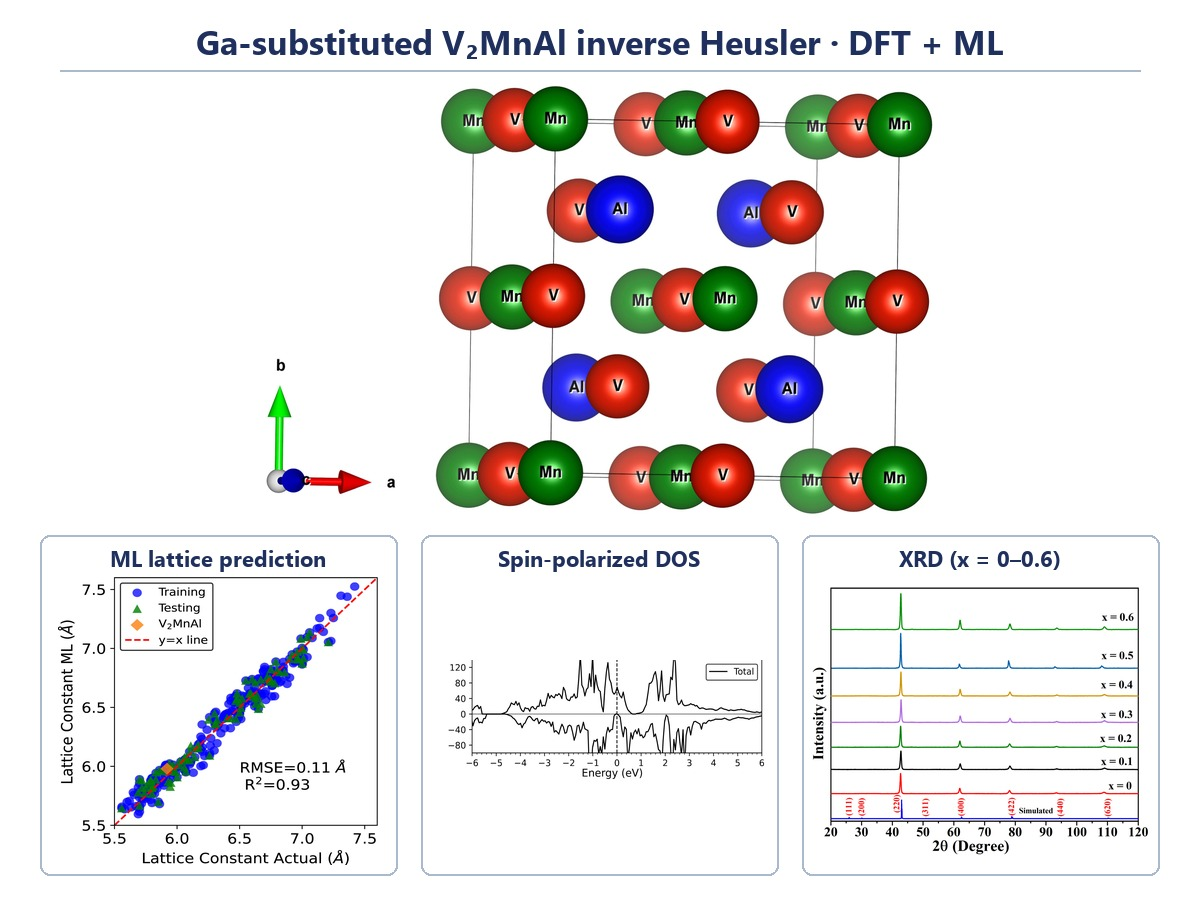
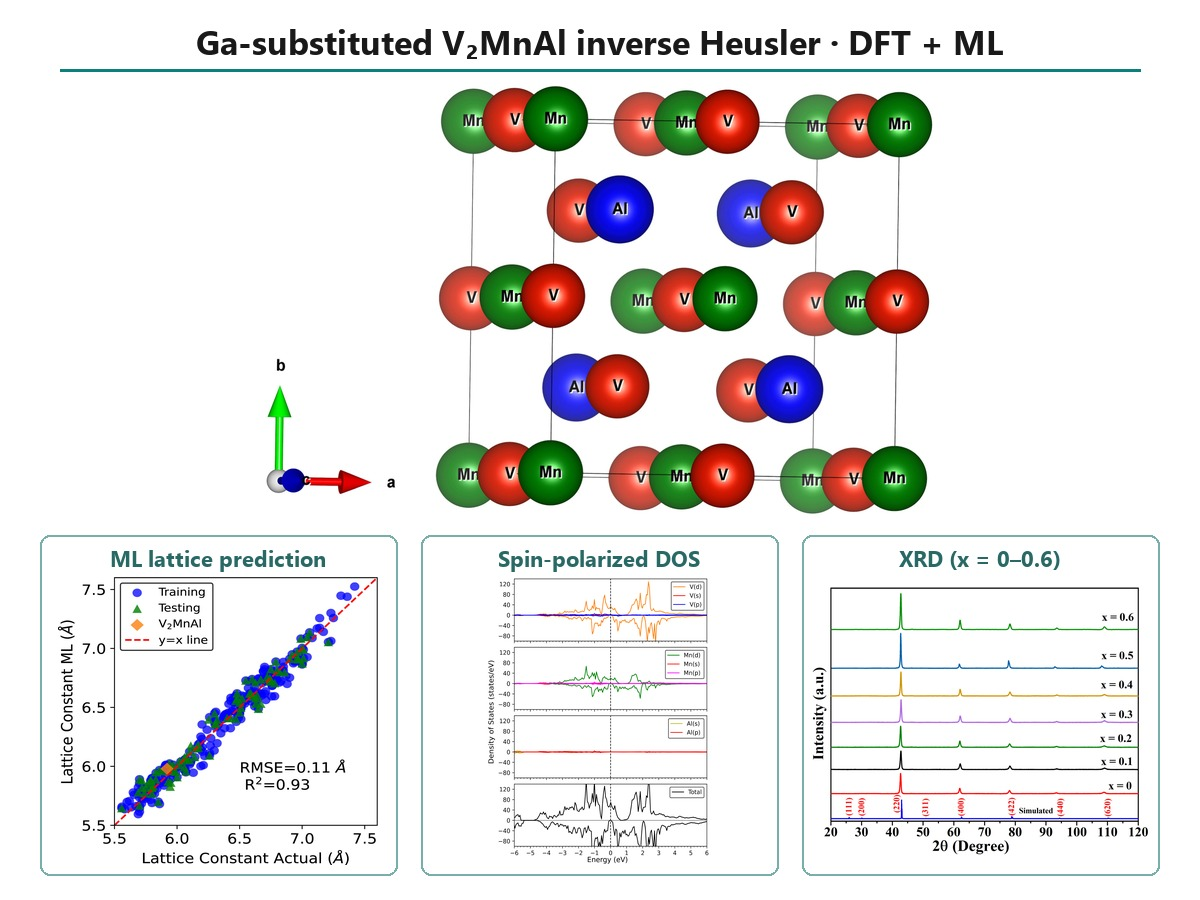
Restyle composite publication thumbnails to match 47; enlarge DOS panels
Claude-Session: https://claude.ai/code/session_01C8otz9xRUX7zpZLP7SNUXe

diff --git a/index.html b/index.html
@@ -407,6 +407,6 @@
 <script id="imgdata" type="application/json">{"logo": "assets/img/logo.png", "concept": "assets/img/concept.jpg", "scope": "assets/img/scope.jpg?v=20261005", "pillars": "assets/img/pillars.jpg", "qr": "assets/img/qr.jpg", "pi": "assets/img/pi.jpg?v=20261010", "m_bincy": "assets/img/m_bincy.jpg", "m_ganji": "assets/img/m_ganji.jpg", "m_prabha": "assets/img/m_prabha.jpg", "m_ksw": "assets/img/m_ksw.jpg", "m_kjb": "assets/img/m_kjb.jpg", "m_khn": "assets/img/m_khn.jpg", "m_cde": "assets/img/m_cde.jpg", "m_smt": "assets/img/m_smt.jpg", "m_shj": "assets/img/m_shj.jpg", "m_ldg": "assets/img/m_ldg.jpg", "m_lsh": "assets/img/m_lsh.jpg", "m_jsw": "assets/img/m_jsw.jpg", "sw_ansys": "assets/img/sw_ansys.png", "sw_fluent": "assets/img/sw_fluent.png", "sw_comsol": "assets/img/sw_comsol.png", "sw_digimat": "assets/img/sw_digimat.png", "sw_geodict": "assets/img/sw_geodict.png", "sw_hepigans": "assets/img/sw_hepigans.png", "sw_msstudio": "assets/img/sw_msstudio.png", "sw_piano": "assets/img/sw_piano.png", "sw_vasp": "assets/img/sw_vasp.png", "n_grad": "assets/img/n_grad.jpg", "n_cover": "assets/img/n_cover.jpg", "n_plat": "assets/img/n_plat.jpg?v=20260905", "n_award": "assets/img/n_award.jpg", "n_geo": "assets/img/n_geo.jpg", "n_qd": "assets/img/n_qd.jpg", "n_marine": "assets/img/n_marine.jpg", "n_hydro": "assets/img/pub/20.jpg", "n_amds": "assets/img/n_amds.jpg", "n_etamds": "assets/img/n_etamds.jpg", "n_mico": "assets/img/n_mico.jpg", "n_halide": "assets/img/n_halide.jpg?v=20260905", "n_tribo": "assets/img/pub/13.jpg", "m_kgw": "assets/img/m_kgw.jpg", "m_gf": "assets/img/m_gf.jpg", "m_uk": "assets/img/m_uk.jpg"}</script>
 <script id="galdata" type="application/json">[{"id": "e2609b", "date": "2026.09.30–10.02", "title": "Korean Ceramic Society", "note": "추계학술대회", "cover": "assets/img/gallery/e2609b-cover.jpg", "shots": ["assets/img/gallery/e2609b-01.jpg", "assets/img/gallery/e2609b-02.jpg"]}, {"id": "e2609", "date": "2026.09.08", "title": "Welcome, Daeun!", "note": "최다은 연구원 환영회", "cover": "assets/img/gallery/e2609-cover.jpg", "shots": ["assets/img/gallery/e2609-01.jpg"]}, {"id": "e2606", "date": "2026.06.21–24", "title": "CIMTEC 2026 · 10th Forum on New Materials", "note": "Perugia, Italy", "cover": "assets/img/gallery/e2606-cover.jpg", "shots": ["assets/img/gallery/e2606-01.jpg", "assets/img/gallery/e2606-02.jpg", "assets/img/gallery/e2606-04.jpg", "assets/img/gallery/e2606-03.jpg"]}, {"id": "e2605b", "date": "2026.05.15", "title": "Teachers' Day", "note": "스승의 날", "cover": "assets/img/gallery/e2605b-cover.jpg", "shots": ["assets/img/gallery/e2605b-02.jpg"]}, {"id": "e2605a", "date": "2026.05.08", "title": "Homecoming", "note": "졸업생 방문", "cover": "assets/img/gallery/e2605a-cover.jpg", "shots": ["assets/img/gallery/e2605a-14.jpg"]}, {"id": "e2604", "date": "2026.04.08–10", "title": "Korean Ceramic Society", "note": "춘계학술대회", "cover": "assets/img/gallery/e2604-cover.jpg", "shots": ["assets/img/gallery/e2604-08.jpg", "assets/img/gallery/e2604-01.jpg", "assets/img/gallery/e2604-06.jpg"]}, {"id": "e2601", "date": "2026.01.09", "title": "Birthday", "note": "", "cover": "assets/img/gallery/e2601-cover.jpg", "shots": ["assets/img/gallery/e2601-01.jpg"]}, {"id": "e2511", "date": "2025.11.19–22", "title": "39th Korea–Japan Seminar on Ceramics", "note": "Oriental Hotel, Jeju", "cover": "assets/img/gallery/e2511-cover.jpg", "shots": ["assets/img/gallery/e2511-01.jpg", "assets/img/gallery/e2511-02.jpg", "assets/img/gallery/e2511-04.jpg"]}, {"id": "e2506", "date": "2025.06.02", "title": "Congrats, Donggeon!", "note": "이동건 취업 축하 파티", "cover": "assets/img/gallery/e2506-cover.jpg", "shots": ["assets/img/gallery/e2506-01.jpg"]}, {"id": "e2505", "date": "2025.05.15", "title": "Teachers' Day", "note": "스승의 날", "cover": "assets/img/gallery/e2505-cover.jpg", "shots": ["assets/img/gallery/e2505-03.jpg", "assets/img/gallery/e2505-05.jpg"]}, {"id": "e2503", "date": "2025.03.13", "title": "Group meeting", "note": "", "cover": "assets/img/gallery/e2503-cover.jpg", "shots": ["assets/img/gallery/e2503-01.jpg"]}, {"id": "e2502b", "date": "2025.02.27", "title": "Welcome Dr. Karan", "note": "환영회", "cover": "assets/img/gallery/e2502b-cover.jpg", "shots": ["assets/img/gallery/e2502b-01.jpg", "assets/img/gallery/e2502b-02.jpg"]}, {"id": "e2502a", "date": "2025.02.05–07", "title": "Nature Conference: Materials for AI", "note": "KAIST", "cover": "assets/img/gallery/e2502a-cover.jpg", "shots": ["assets/img/gallery/e2502a-01.jpg"]}, {"id": "e2501", "date": "2025.01.10", "title": "Birthday", "note": "", "cover": "assets/img/gallery/e2501-cover.jpg", "shots": ["assets/img/gallery/e2501-01.jpg"]}, {"id": "e2410", "date": "2024.10.16–18", "title": "Korean Ceramic Society", "note": "추계학술대회", "cover": "assets/img/gallery/e2410-cover.jpg", "shots": ["assets/img/gallery/e2410-04.jpg", "assets/img/gallery/e2410-01.jpg", "assets/img/gallery/e2410-02.jpg"]}, {"id": "e2409", "date": "2024.09.22–27", "title": "Multiscale Materials Modeling (MMM11)", "note": "", "cover": "assets/img/gallery/e2409-cover.jpg", "shots": ["assets/img/gallery/e2409-01.jpg", "assets/img/gallery/e2409-02.jpg", "assets/img/gallery/e2409-09.jpg", "assets/img/gallery/e2409-03.jpg", "assets/img/gallery/e2409-04.jpg", "assets/img/gallery/e2409-05.jpg", "assets/img/gallery/e2409-06.jpg"]}, {"id": "e2403", "date": "2024.03.15–16", "title": "Membership Training", "note": "Geoje", "cover": "assets/img/gallery/e2403-cover.jpg", "shots": ["assets/img/gallery/emt-01.jpg"]}, {"id": "e2305", "date": "2023.05.19–20", "title": "Membership Training", "note": "Changwon", "cover": "assets/img/gallery/e2305-cover.jpg", "shots": ["assets/img/gallery/emt-06.jpg", "assets/img/gallery/emt-02.jpg"]}]</script>
 <script id="pubdata" type="application/json">[{"id": 62, "date": "2026-10-01", "year": 2026, "title": "Flavonoid-coordinated NiCo bimetallic complex for interfacial electronic reconstruction and d-band engineering in BiVO4 toward sustainable solar water oxidation", "venue": "Journal of Energy Chemistry", "jif": 15.6, "q": "Q1", "cites": 0, "role": "co-author", "pos": [8, 10], "doi": "https://doi.org/10.1016/j.jechem.2026.06.082", "authors": [{"n": "Pratik Mane", "lab": false, "m": ""}, {"n": "Sampath Prabhakaran", "lab": true, "m": ""}, {"n": "Vishal Burungale", "lab": false, "m": ""}, {"n": "Hyojung Bae", "lab": false, "m": ""}, {"n": "Jiwon Heo", "lab": false, "m": ""}, {"n": "Chaewon Seong", "lab": false, "m": ""}, {"n": "Dhanashri Burungale", "lab": false, "m": ""}, {"n": "Hyunseok Ko", "lab": true, "m": ""}, {"n": "Sang Hyun Lee", "lab": false, "m": ""}, {"n": "Jun-Seok Ha", "lab": false, "m": ""}], "fig": 1}, {"id": 61, "date": "2026-08-25", "year": 2026, "title": "Effect of fumed silica content on the microstructural evolution and mechanical properties of metakaolin-based basalt fiber-reinforced geopolymer matrix composites", "venue": "Advanced Composite Materials", "jif": null, "q": null, "cites": 0, "role": "co-corresponding", "pos": [5, 5], "doi": "https://doi.org/10.1080/09243046.2026.2721819", "authors": [{"n": "Sanghun Lee", "lab": true, "m": "†"}, {"n": "Shinwoo Kang", "lab": true, "m": "†"}, {"n": "Hyung Mi Lim", "lab": false, "m": ""}, {"n": "Seog-Young Yoon", "lab": false, "m": "*"}, {"n": "Hyunseok Ko", "lab": true, "m": "*"}], "fig": 1}, {"id": 60, "date": "2026-11-01", "year": 2026, "title": "Composition and Processing Descriptors Govern Electroceramic Property Prediction: A Multi-Modal Interpretable Framework for BaTiO3-Based Ceramics", "venue": "Journal of Materiomics", "jif": 10.6, "q": "Q1", "cites": 0, "role": "co-corresponding", "pos": [6, 7], "doi": "https://doi.org/10.1016/j.jmat.2026.101282", "authors": [{"n": "Saman khalid", "lab": false, "m": "†"}, {"n": "Muhammad Faseeh", "lab": false, "m": "†"}, {"n": "Murad Ali Khan", "lab": false, "m": ""}, {"n": "Hyejeong Song", "lab": true, "m": ""}, {"n": "Syed Shehryar Ali Naqvi", "lab": false, "m": ""}, {"n": "Hyunseok Ko", "lab": true, "m": "*"}, {"n": "Do-Hyeun Kim", "lab": false, "m": "*"}], "fig": 1}, {"id": 59, "date": "2026-08-01", "year": 2026, "title": "Multi-model machine learning framework for predicting material properties of BaTiO3-based ferroelectric ceramics", "venue": "Materials & Design", "jif": 8.2, "q": "Q1", "cites": 0, "role": "co-corresponding", "pos": [6, 7], "doi": "https://doi.org/10.1016/j.matdes.2026.116418", "authors": [{"n": "Saman Khalid", "lab": false, "m": "†"}, {"n": "Muhammad Faseeh", "lab": false, "m": ""}, {"n": "Hyejeong Song", "lab": true, "m": ""}, {"n": "Murad Ali Khan", "lab": false, "m": ""}, {"n": "Syed Shehryar Ali Naqvi", "lab": false, "m": ""}, {"n": "Hyunseok Ko", "lab": true, "m": "*"}, {"n": "Do-Hyeon Kim", "lab": false, "m": "*"}], "fig": 1}, {"id": 58, "date": "2026-08-01", "year": 2026, "title": "Reinforced surface reactivity via incorporation of metal catalyst onto perovskite oxide for CO2 reduction", "venue": "Materials Today Energy", "jif": 8.1, "q": "Q1", "cites": 0, "role": "co-corresponding", "pos": [9, 10], "doi": "https://doi.org/10.1016/j.mtener.2026.102327", "authors": [{"n": "Sang Won Lee", "lab": false, "m": "†"}, {"n": "Sampath Prabhakaran", "lab": true, "m": "†"}, {"n": "Tae Heon Nam", "lab": false, "m": ""}, {"n": "Geunwoo Kim", "lab": true, "m": ""}, {"n": "Jae Hoon Lim", "lab": false, "m": ""}, {"n": "Hyejeong Song", "lab": true, "m": ""}, {"n": "Sungtae Park", "lab": false, "m": ""}, {"n": "Jong Hyeok Park", "lab": false, "m": "*"}, {"n": "Hyunseok Ko", "lab": true, "m": "*"}, {"n": "Tae Ho Shin", "lab": false, "m": "*"}], "fig": 1}, {"id": 57, "date": "2026-12-01", "year": 2026, "title": "High Polarity Doping of CoFe Layered Hydroxides: Bifunctional and Corrosion-Resistant Anion Exchange Membrane Seawater Electrolyzers", "venue": "Nano-Micro Letters", "jif": 38.5, "q": "Q1", "cites": 2, "role": "co-author", "pos": [6, 11], "doi": "https://doi.org/10.1007/s40820-026-02230-8", "authors": [{"n": "Anandhan Ayyappan Saj", "lab": false, "m": "†"}, {"n": "Sampath Prabhakaran", "lab": true, "m": "†"}, {"n": "Moshin Rasool", "lab": false, "m": ""}, {"n": "Kousik Bhunia", "lab": false, "m": ""}, {"n": "Dongho Lee", "lab": false, "m": ""}, {"n": "Hyunseok Ko", "lab": true, "m": ""}, {"n": "Tukaram D. Dongale", "lab": false, "m": ""}, {"n": "Muthukumar Perumalsamy", "lab": false, "m": ""}, {"n": "Arul Saravanan Raaju Sundhar", "lab": false, "m": ""}, {"n": "Do Hwan Kim", "lab": false, "m": "*"}, {"n": "Sang Jae Kim", "lab": false, "m": "*"}], "fig": 1}, {"id": 56, "date": "2026-08-01", "year": 2026, "title": "Low temperature/low-pressure fabrication of oxide/oxide ceramic matrix composites with excellent mechanical properties and stealth capabilities", "venue": "Advanced Composites and Hybrid Materials", "jif": 15.5, "q": "Q1", "cites": 0, "role": "co-author", "pos": [3, 7], "doi": "https://doi.org/10.1007/s42114-026-01816-5", "authors": [{"n": "Shanigaram Mallesh", "lab": false, "m": "†"}, {"n": "Dong-Jun Hong", "lab": false, "m": ""}, {"n": "Hyunseok Ko", "lab": true, "m": ""}, {"n": "Sanghun Lee", "lab": true, "m": ""}, {"n": "Chae-Hwan Lim", "lab": false, "m": ""}, {"n": "Won-Ho Choi", "lab": false, "m": ""}, {"n": "Young-Woo Nam", "lab": false, "m": "*"}], "fig": 1}, {"id": 55, "date": "2026-06-17", "year": 2026, "title": "Mechanistic insights into vacancy-driven activation and dissociation of hydrogen peroxide on Ti3C2O2 MXene in water", "venue": "Nanoscale Advances", "jif": 6.3, "q": "Q2", "cites": 0, "role": "corresponding", "pos": [2, 2], "doi": "https://doi.org/10.1039/d5na00962f", "authors": [{"n": "Masoud Darvish Ganji", "lab": true, "m": "†"}, {"n": "Hyunseok Ko", "lab": true, "m": "*"}], "fig": 1, "sel": 1}, {"id": 54, "date": "2026-06-01", "year": 2026, "title": "Bridging the theoretical gap between electronic structure and dynamic stability: An integrated computational framework for ZnO sheet-based chemical warfare agent sensors", "venue": "Surfaces and Interfaces", "jif": 6.0, "q": "Q2", "cites": 5, "role": "co-corresponding", "pos": [3, 3], "doi": "https://doi.org/10.1016/j.surfin.2026.109196", "authors": [{"n": "Masoud Darvish Ganji", "lab": true, "m": "†"}, {"n": "Mahyar Rezvani", "lab": false, "m": ""}, {"n": "Hyunseok Ko", "lab": true, "m": "*"}], "fig": 1}, {"id": 53, "date": "2026-07-01", "year": 2026, "title": "Numerical analysis and optimization of horizontal MOCVD reactor design parameters for uniform GaN thin films", "venue": "Journal of the Korean Ceramic Society", "jif": 4.4, "q": "Q1", "cites": 0, "role": "co-corresponding", "pos": [3, 3], "doi": "https://doi.org/10.1007/s43207-026-00602-9", "authors": [{"n": "Haneul Kim", "lab": true, "m": "†"}, {"n": "Roy Byung Kyu Chung", "lab": false, "m": ""}, {"n": "Hyunseok Ko", "lab": true, "m": "*"}], "fig": 1}, {"id": 52, "date": "2026-03-01", "year": 2026, "title": "Processing-structure-property prediction in polycrystalline BaTiO3 ceramics using experimental and computational data fusion", "venue": "Materials Today Communications", "jif": 4.9, "q": "Q2", "cites": 1, "role": "co-corresponding", "pos": [6, 7], "doi": "https://doi.org/10.1016/j.mtcomm.2026.115004", "authors": [{"n": "Muhammad Faseeh", "lab": false, "m": "†"}, {"n": "Hyejeong Song", "lab": true, "m": ""}, {"n": "Murad Ali Khan", "lab": false, "m": ""}, {"n": "Syed Shehryar Ali Naqvi", "lab": false, "m": ""}, {"n": "Saman Khalid", "lab": false, "m": ""}, {"n": "Hyunseok Ko", "lab": true, "m": "*"}, {"n": "Do-Hyeun Kim", "lab": false, "m": "*"}], "fig": 1}, {"id": 51, "date": "2026-03-01", "year": 2026, "title": "Hierarchically structured Cu-Fe-S nanomaterials as dual-functional catalysts for enhanced hydrogen evolution and photocatalytic dye degradation", "venue": "Journal of Alloys and Compounds", "jif": 6.7, "q": "Q2", "cites": 0, "role": "co-corresponding", "pos": [7, 8], "doi": "https://doi.org/10.1016/j.jallcom.2026.187031", "authors": [{"n": "C.K. Sushma", "lab": false, "m": "†"}, {"n": "Hyeon Woo Kim", "lab": false, "m": ""}, {"n": "Maheshkumar V", "lab": false, "m": ""}, {"n": "Anju Sebastian", "lab": false, "m": ""}, {"n": "Masoud Darvish Ganji", "lab": true, "m": ""}, {"n": "Sung Beom Cho", "lab": false, "m": ""}, {"n": "Hyunseok Ko", "lab": true, "m": "*"}, {"n": "Vidhya Bhojan", "lab": false, "m": "*"}], "fig": 1}, {"id": 50, "date": "2026-02-01", "year": 2026, "title": "First-Principles Models of Triboelectrification", "venue": "Small Methods", "jif": 8.7, "q": "Q1", "cites": 0, "role": "co-author", "pos": [3, 6], "doi": "https://doi.org/10.1002/smtd.202501782", "authors": [{"n": "Giulio Fatti", "lab": true, "m": "†"}, {"n": "John Cavin", "lab": false, "m": ""}, {"n": "Hyunseok Ko", "lab": true, "m": ""}, {"n": "Rohan Mishra", "lab": false, "m": ""}, {"n": "Daniele Dini", "lab": false, "m": ""}, {"n": "Sung Beom Cho", "lab": false, "m": ""}], "fig": 1}, {"id": 49, "date": "2026-01-02", "year": 2026, "title": "Toward efficient dielectric material discovery: a comparative evaluation of Transformer and AutoML-based inverse learning", "venue": "Journal of Asian Ceramic Societies", "jif": 1.8, "q": "Q3", "cites": 1, "role": "co-corresponding", "pos": [5, 6], "doi": "https://doi.org/10.1080/21870764.2025.2570561", "authors": [{"n": "Murad Ali Khan", "lab": false, "m": "†"}, {"n": "Hyejeong Song", "lab": true, "m": ""}, {"n": "Syed Shehryar Ali Naqvi", "lab": false, "m": ""}, {"n": "Muhammad Faseeh", "lab": false, "m": ""}, {"n": "Hyunseok Ko", "lab": true, "m": "*"}, {"n": "Do-Hyeun Kim", "lab": false, "m": "*"}], "fig": 1}, {"id": 48, "date": "2025-11-01", "year": 2025, "title": "Boosting the efficiency and stability of cerium-doped trimetallic phosphides for overall water splitting", "venue": "Chemical Engineering Journal", "jif": 12.5, "q": "Q1", "cites": 5, "role": "co-author", "pos": [5, 8], "doi": "https://doi.org/10.1016/j.cej.2025.169404", "authors": [{"n": "Mai Mai", "lab": false, "m": "†"}, {"n": "Sampath Prabhakaran", "lab": true, "m": ""}, {"n": "Huyen Thi Dao", "lab": false, "m": ""}, {"n": "Lan Nguyen", "lab": false, "m": ""}, {"n": "Hyunseok Ko", "lab": true, "m": ""}, {"n": "Young Sun Mok", "lab": false, "m": ""}, {"n": "Van Hien Hoa", "lab": false, "m": "*"}, {"n": "Do Hwan Kim", "lab": false, "m": "*"}], "fig": 1}, {"id": 47, "date": "2025-10-28", "year": 2025, "title": "Engineering multifunctionality in gallium oxide: unveiling novel structural, electronic, and opto-mechanical attributes of gadolinium-doped β-Ga2O3 through advanced first-principles design", "venue": "RSC Advances", "jif": 6.1, "q": "Q2", "cites": 4, "role": "corresponding", "pos": [2, 2], "doi": "https://doi.org/10.1039/d5ra05763a", "authors": [{"n": "Masoud Darvish Ganji", "lab": true, "m": "†"}, {"n": "Hyunseok Ko", "lab": true, "m": "*"}], "fig": 1}, {"id": 46, "date": "2025-09-01", "year": 2025, "title": "Rational material design of chemically inert oxide anode coating layers for lithium metal and all-solid-state batteries", "venue": "Applied Surface Science Advances", "jif": 10.0, "q": "Q1", "cites": 0, "role": "co-author", "pos": [6, 10], "doi": "https://doi.org/10.1016/j.apsadv.2025.100842", "authors": [{"n": "Dong Won Jeon", "lab": false, "m": "†"}, {"n": "Wootaek Choi", "lab": false, "m": ""}, {"n": "Jun Hyuk Kang", "lab": false, "m": ""}, {"n": "Hyeon Woo Kim", "lab": false, "m": ""}, {"n": "Min Sung Kang", "lab": false, "m": ""}, {"n": "Woongchan Kim", "lab": false, "m": ""}, {"n": "Han Uk Lee", "lab": false, "m": ""}, {"n": "Hyunseok Ko", "lab": true, "m": ""}, {"n": "Patrick Joohyun Kim", "lab": false, "m": "*"}, {"n": "Sung Beom Cho", "lab": false, "m": "*"}], "fig": 1}, {"id": 45, "date": "2025-06-30", "year": 2025, "title": "초저궤도 우주환경에서 자기 강화 원자산소 저항 산화층이 형성된 산화물/산화물 세라믹 복합재 구조의 손상 거동 평가", "venue": "복합재료 (Composites Research), 한국복합재료학회", "jif": null, "q": null, "cites": 0, "role": "co-author", "pos": [6, 8], "doi": "https://doi.org/10.7234/composres.2025.38.3.333", "authors": [{"n": "Chae-Hwan Lim", "lab": false, "m": "†"}, {"n": "Dong-Jun Hong", "lab": false, "m": ""}, {"n": "Hanna Jang", "lab": false, "m": ""}, {"n": "Seung-Hyeon Kang", "lab": false, "m": ""}, {"n": "Sang-Hoon Lee", "lab": true, "m": ""}, {"n": "Hyunseok Ko", "lab": true, "m": ""}, {"n": "Won-Ho Choi", "lab": false, "m": ""}, {"n": "Young-Woo Nam", "lab": false, "m": ""}], "fig": 1}, {"id": 44, "date": "2025-09-01", "year": 2025, "title": "First-principles investigation of Mo-doped β-Ga2O3: Prospects for visible light technologies and spintronics", "venue": "Physica B: Condensed Matter", "jif": 3.2, "q": "Q2", "cites": 8, "role": "corresponding", "pos": [5, 5], "doi": "https://doi.org/10.1016/j.physb.2025.417334", "authors": [{"n": "Masoud Darvish Ganji", "lab": true, "m": "†"}, {"n": "Hyejeong Song", "lab": true, "m": ""}, {"n": "Ji-Hyeon Park", "lab": false, "m": ""}, {"n": "Dae-Woo Jeon", "lab": false, "m": ""}, {"n": "Hyunseok Ko", "lab": true, "m": "*"}], "fig": 1}, {"id": 43, "date": "2025-03-12", "year": 2025, "title": "Accentuating the ambient curing behavior of geopolymers: metamodel-guided optimization for fast-curing geopolymers with high flexural strength", "venue": "Digital Discovery", "jif": 7.1, "q": "Q1", "cites": 4, "role": "corresponding", "pos": [5, 6], "doi": "https://doi.org/10.1039/d4dd00217b", "authors": [{"n": "Kyungwon Kim", "lab": true, "m": "†"}, {"n": "Hyejeong Song", "lab": true, "m": "†"}, {"n": "Sanghun Lee", "lab": true, "m": ""}, {"n": "Hyung-Kyu Cho", "lab": false, "m": ""}, {"n": "Hyung-Mi Lim", "lab": false, "m": ""}, {"n": "Hyunseok Ko", "lab": true, "m": "*"}], "fig": 1}, {"id": 42, "date": "2025-01-14", "year": 2025, "title": "First-Principle Insights into Positive Triboelectrification of Polyoxymethylene Through Homolytic Bond Rupture", "venue": "Nanoenergy Advances", "jif": 4.2, "q": "Q3", "cites": 2, "role": "co-author", "pos": [2, 3], "doi": "https://doi.org/10.3390/nanoenergyadv5010001", "authors": [{"n": "Giulio Fatti", "lab": true, "m": "†*"}, {"n": "Hyunseok Ko", "lab": true, "m": ""}, {"n": "Sung Beom Cho", "lab": false, "m": ""}], "fig": 1}, {"id": 41, "date": "2025-02-01", "year": 2025, "title": "Ultrahigh-gain colloidal quantum dot infrared avalanche photodetectors", "venue": "Nature Nanotechnology", "jif": 37.5, "q": "Q1", "cites": 47, "role": "first", "pos": [3, 9], "doi": "https://doi.org/10.1038/s41565-024-01831-x", "authors": [{"n": "Byeongsu Kim", "lab": false, "m": "†"}, {"n": "Sang Yeon Lee", "lab": false, "m": "†"}, {"n": "Hyunseok Ko", "lab": true, "m": "†"}, {"n": "Jihyung Lee", "lab": false, "m": ""}, {"n": "Hyejeong Song", "lab": true, "m": ""}, {"n": "Sungjun Cho", "lab": false, "m": ""}, {"n": "Min-Ho Lee", "lab": false, "m": ""}, {"n": "Jung-Yong Lee", "lab": false, "m": ""}], "fig": 1, "sel": 1}, {"id": 40, "date": "2025-04-01", "year": 2025, "title": "Unveiling the Aluminum Doping Effects of In-Situ Transmogrified Dual-LDH Heterostructure and Its Fermi-Level Alignment to Water Splitting Potentials", "venue": "Advanced Energy Materials", "jif": 25.5, "q": "Q1", "cites": 39, "role": "co-author", "pos": [10, 11], "doi": "https://doi.org/10.1002/aenm.202403889", "authors": [{"n": "Nandapriya Manivelan", "lab": false, "m": "†"}, {"n": "Junji Piao", "lab": false, "m": ""}, {"n": "Jaekook Kim", "lab": false, "m": ""}, {"n": "Seunghwa Lee", "lab": false, "m": ""}, {"n": "Youngji Kim", "lab": false, "m": ""}, {"n": "Vaiyapuri Soundharrajan", "lab": false, "m": ""}, {"n": "Min-Kyu Son", "lab": false, "m": ""}, {"n": "Amir Humayun", "lab": false, "m": ""}, {"n": "Masoud Darvish Ganji", "lab": true, "m": ""}, {"n": "Hyunseok Ko", "lab": true, "m": ""}, {"n": "Kandasamy Prabakar", "lab": false, "m": ""}], "fig": 1}, {"id": 39, "date": "2025-01-01", "year": 2025, "title": "Machine learning-enhanced design of lead-free halide perovskite materials using density functional theory", "venue": "Current Applied Physics", "jif": 2.8, "q": "Q3", "cites": 7, "role": "co-corresponding", "pos": null, "doi": "https://doi.org/10.1016/j.cap.2024.10.012", "authors": [{"n": "Upendra Kumar", "lab": true, "m": "†"}, {"n": "Hyeon Woo Kim", "lab": false, "m": "†"}, {"n": "Gyanendra Kumar Maurya", "lab": false, "m": ""}, {"n": "Bincy Babu Raj", "lab": true, "m": ""}, {"n": "Sobhit Singh", "lab": false, "m": ""}, {"n": "Ajay Kumar Kushwaha", "lab": false, "m": ""}, {"n": "Sung Beom Cho", "lab": false, "m": "*"}, {"n": "Hyunseok Ko", "lab": true, "m": "*"}], "fig": 1}, {"id": 38, "date": "2024-11-01", "year": 2024, "title": "Suppressing Hole Accumulation Through Sub-Nanometer Dipole Interfaces in Hybrid Perovskite/Organic Solar Cells for Boosting Near-Infrared Photon Harvesting", "venue": "Advanced Materials", "jif": 29.1, "q": "Q1", "cites": 22, "role": "co-author", "pos": [9, 13], "doi": "https://doi.org/10.1002/adma.202411015", "authors": [{"n": "Min-Ho Lee", "lab": false, "m": "†"}, {"n": "Min Seok Kim", "lab": false, "m": ""}, {"n": "Yu Jin Lee", "lab": false, "m": ""}, {"n": "Byeongsu Kim", "lab": false, "m": ""}, {"n": "Ju-Hyeon Kim", "lab": false, "m": ""}, {"n": "Chungryeol Lee", "lab": false, "m": ""}, {"n": "Jihyung Lee", "lab": false, "m": ""}, {"n": "Dong-Jun Kim", "lab": false, "m": ""}, {"n": "Hyunseok Ko", "lab": true, "m": ""}, {"n": "Masoud Darvish Ganji", "lab": true, "m": ""}, {"n": "Kwanghee Lee", "lab": false, "m": ""}, {"n": "Woojae Kim", "lab": false, "m": ""}, {"n": "Jung-Yong Lee", "lab": false, "m": ""}], "fig": 1}, {"id": 37, "date": "2024-12-10", "year": 2024, "title": "Overcoming the limitations of atomic-scale simulations on semiconductor catalysis with changing Fermi level and surface treatment", "venue": "Journal of Materials Chemistry A", "jif": 9.2, "q": "Q1", "cites": 4, "role": "co-corresponding", "pos": [12, 14], "doi": "https://doi.org/10.1039/d4ta03595j", "authors": [{"n": "Seulgi ji", "lab": false, "m": "†"}, {"n": "Dong Won Jeon", "lab": false, "m": ""}, {"n": "Junghyun Choi", "lab": false, "m": ""}, {"n": "Haneol Cho", "lab": false, "m": ""}, {"n": "Bo-In Park", "lab": false, "m": ""}, {"n": "Ilpyo Roh", "lab": false, "m": ""}, {"n": "Hyungil Choi", "lab": false, "m": ""}, {"n": "Chansoo Kim", "lab": false, "m": ""}, {"n": "Jung Kyu Kim", "lab": false, "m": ""}, {"n": "Uk sim", "lab": false, "m": ""}, {"n": "Danlei Li", "lab": false, "m": ""}, {"n": "Hyunseok Ko", "lab": true, "m": "*"}, {"n": "Sung Beom Cho", "lab": false, "m": "*"}, {"n": "Heechae Choi", "lab": false, "m": "*"}], "fig": 1, "sel": 1}, {"id": 36, "date": "2024-11-01", "year": 2024, "title": "Multifaceted investigation into the impact of Ga substitution for Al in V2MnAl inverse Heusler alloys", "venue": "Physica B: Condensed Matter", "jif": 3.2, "q": "Q2", "cites": 3, "role": "co-corresponding", "pos": [4, 5], "doi": "https://doi.org/10.1016/j.physb.2024.416345", "authors": [{"n": "Shashank Shekhar Mishra", "lab": false, "m": "†"}, {"n": "Upendra Kumar", "lab": true, "m": "†"}, {"n": "Bincy Babu Raj", "lab": true, "m": ""}, {"n": "Hyunseok Ko", "lab": true, "m": "*"}, {"n": "Thakur Prasad Yadav", "lab": false, "m": "*"}], "fig": 1}, {"id": 35, "date": "2024-05-08", "year": 2024, "title": "Unravelling performance of honeycomb structures as drug delivery systems for the isoniazid drug using DFT-D3 correction dispersion and molecular dynamic simulations", "venue": "Physical Chemistry Chemical Physics", "jif": 3.0, "q": "Q3", "cites": 50, "role": "co-author", "pos": [2, 8], "doi": "https://doi.org/10.1039/d3cp05457h", "authors": [{"n": "Masoud Darvish Ganji", "lab": true, "m": "†"}, {"n": "Hyunseok Ko", "lab": true, "m": ""}, {"n": "Saeed Jamehbozorgi", "lab": false, "m": ""}, {"n": "Mahmood Tajbakhsh", "lab": false, "m": ""}, {"n": "Sepideh Tanreh", "lab": false, "m": ""}, {"n": "Rosa Pahlavan Nejad", "lab": false, "m": ""}, {"n": "Mahboubeh Sepahvand", "lab": false, "m": ""}, {"n": "Mahyar Rezvani", "lab": false, "m": "*"}], "fig": 1}, {"id": 34, "date": "2024-05-01", "year": 2024, "title": "Morphological diversity in directionally-solidified microstructures with varying anisotropy of solid-liquid interfacial free energy", "venue": "Journal of Materials Research and Technology", "jif": 7.3, "q": "Q1", "cites": 6, "role": "co-corresponding", "pos": [4, 5], "doi": "https://doi.org/10.1016/j.jmrt.2024.04.126", "authors": [{"n": "Geunwoo Kim", "lab": true, "m": "†"}, {"n": "Tomohiro Takaki", "lab": false, "m": ""}, {"n": "Yasushi Shibuta", "lab": false, "m": ""}, {"n": "Hyunseok Ko", "lab": true, "m": "*"}, {"n": "Munekazu Ohno", "lab": false, "m": "*"}], "fig": 1}, {"id": 33, "date": "2024-01-01", "year": 2024, "title": "Designing Pr-based advanced photoluminescent materials using machine learning and density functional theory", "venue": "Journal of Materials Science", "jif": 4.4, "q": "Q2", "cites": 5, "role": "corresponding", "pos": [5, 5], "doi": "https://doi.org/10.1007/s10853-023-09232-6", "authors": [{"n": "Upendra Kumar", "lab": true, "m": "†"}, {"n": "Hyeon Woo Kim", "lab": false, "m": ""}, {"n": "Sobhit Singh", "lab": false, "m": ""}, {"n": "Sung Beom Cho", "lab": false, "m": "*"}, {"n": "Hyunseok Ko", "lab": true, "m": "*"}], "fig": 1}, {"id": 32, "date": "2024-04-01", "year": 2024, "title": "Sequential doping strategy in rutile TiO2 nanorod for high performance photoanode", "venue": "Applied Surface Science", "jif": 6.6, "q": "Q1", "cites": 6, "role": "co-corresponding", "pos": [10, 11], "doi": "https://doi.org/10.1016/j.apsusc.2023.159213", "authors": [{"n": "Sang Yeon Lee", "lab": false, "m": "†"}, {"n": "Young Jae Lee", "lab": false, "m": ""}, {"n": "Il-han Yoo", "lab": false, "m": ""}, {"n": "Hyeon Woo Kim", "lab": false, "m": ""}, {"n": "Hyejeong Song", "lab": true, "m": ""}, {"n": "Soo Won Heo", "lab": false, "m": ""}, {"n": "Shankara S Kalanur", "lab": false, "m": ""}, {"n": "Gourab Mohapatra", "lab": false, "m": ""}, {"n": "Hyunseok Ko", "lab": true, "m": "*"}, {"n": "Hyungtak Seo", "lab": false, "m": "*"}], "fig": 1}, {"id": 31, "date": "2023-12-01", "year": 2023, "title": "Radar absorption characteristics of ceramic oxide fiber/aluminosilicate-sendust composite structure at ultrahigh temperatures", "venue": "Journal of Alloys and Compounds", "jif": 6.7, "q": "Q1", "cites": 24, "role": "co-author", "pos": [3, 7], "doi": "https://doi.org/10.1016/j.jallcom.2023.171979", "authors": [{"n": "Shanigaram Mallesh", "lab": false, "m": "†"}, {"n": "Dongyoung Shim", "lab": false, "m": "†"}, {"n": "Hyunseok Ko", "lab": true, "m": ""}, {"n": "Younghoon Kang", "lab": false, "m": ""}, {"n": "Dongjun Hong", "lab": false, "m": ""}, {"n": "Byeongsu Kwak", "lab": false, "m": ""}, {"n": "Youngwoo Nam", "lab": false, "m": ""}], "fig": 1}, {"id": 30, "date": "2023-11-24", "year": 2023, "title": "Explainable AI for Material Property Prediction Based on Energy Cloud: A Shapley-Driven Approach", "venue": "Materials", "jif": 3.7, "q": "Q2", "cites": 28, "role": "co-author", "pos": [4, 5], "doi": "https://doi.org/10.3390/ma16237322", "authors": [{"n": "Faiza Qayyum", "lab": false, "m": "†"}, {"n": "Murad Ali Khan", "lab": false, "m": ""}, {"n": "Do-Hyeun Kim", "lab": false, "m": "*"}, {"n": "Hyunseok Ko", "lab": true, "m": ""}, {"n": "Ga-Ae Ryu", "lab": false, "m": "*"}], "fig": 1}, {"id": 29, "date": "2023-10-01", "year": 2023, "title": "Uncertainty and Irreproducibility of Triboelectricity Based on Interface Mechanochemistry", "venue": "Physical Review Letters", "jif": 9.4, "q": "Q1", "cites": 21, "role": "co-author", "pos": [9, 11], "doi": "https://doi.org/10.1103/physrevlett.131.166201", "authors": [{"n": "Giulio Fatti", "lab": true, "m": "†"}, {"n": "Hyunseung Kim", "lab": false, "m": ""}, {"n": "Changwan Sohn", "lab": false, "m": ""}, {"n": "Minah Park", "lab": false, "m": ""}, {"n": "Yeong-won Lim", "lab": false, "m": ""}, {"n": "Zhuohan Li", "lab": false, "m": ""}, {"n": "Kwi-Il Park", "lab": false, "m": ""}, {"n": "Izabela Szlufarska", "lab": false, "m": ""}, {"n": "Hyunseok Ko", "lab": true, "m": ""}, {"n": "Chang Kyu Jeong", "lab": false, "m": ""}, {"n": "Sung Beom Cho", "lab": false, "m": ""}], "fig": 1}, {"id": 28, "date": "2023-10-01", "year": 2023, "title": "A versatile strategy for hybridizing small experimental and large simulation data: A case for ceramic tape-casting process", "venue": "Materials & Design", "jif": 8.2, "q": "Q1", "cites": 6, "role": "first", "pos": [2, 8], "doi": "https://doi.org/10.1016/j.matdes.2023.112357", "authors": [{"n": "Jeong-Hun Kim", "lab": false, "m": "†"}, {"n": "Hyunseok Ko", "lab": true, "m": "†"}, {"n": "Dong-Hun Yeo", "lab": false, "m": ""}, {"n": "Zeehoon Park", "lab": false, "m": ""}, {"n": "Upendra Kumar", "lab": true, "m": ""}, {"n": "Kwan-Hee Yoo", "lab": false, "m": ""}, {"n": "Aziz Nasridinov", "lab": false, "m": ""}, {"n": "Sung Beom Cho", "lab": false, "m": ""}], "fig": 1, "sel": 1}, {"id": 27, "date": "2023-11-01", "year": 2023, "title": "Rational Design Strategy for Triboelectric Nanogenerators Based on Electron Back Flow and Ionic Defects: The Case of Polytetrafluoroethylene", "venue": "Advanced Electronic Materials", "jif": 5.9, "q": "Q1", "cites": 15, "role": "co-corresponding", "pos": [3, 11], "doi": "https://doi.org/10.1002/aelm.202300333", "authors": [{"n": "Giulio Fatti", "lab": true, "m": "†*"}, {"n": "Alessandra Ciniero", "lab": false, "m": ""}, {"n": "Hyunseok Ko", "lab": true, "m": "*"}, {"n": "Han Uk Lee", "lab": false, "m": ""}, {"n": "Yujin Na", "lab": false, "m": ""}, {"n": "Chang Kyu Jeong", "lab": false, "m": ""}, {"n": "Sang-geul Lee", "lab": false, "m": ""}, {"n": "Dongyub Kwak", "lab": false, "m": ""}, {"n": "Kwi-Il Park", "lab": false, "m": "*"}, {"n": "Sung Beom Cho", "lab": false, "m": "*"}, {"n": "Daniele Dini", "lab": false, "m": ""}], "fig": 1}, {"id": 26, "date": "2023-09-01", "year": 2023, "title": "Isovalent multi-component doping strategy for stabilizing cubic-Li7La3Zr2O12 with excellent Li mobility", "venue": "Chemical Engineering Journal", "jif": 12.5, "q": "Q1", "cites": 21, "role": "co-author", "pos": [4, 9], "doi": "https://doi.org/10.1016/j.cej.2023.144552", "authors": [{"n": "Han Uk Lee", "lab": false, "m": "†"}, {"n": "SeungminHan", "lab": false, "m": ""}, {"n": "Dong Geon Lee", "lab": true, "m": ""}, {"n": "Hyunseok Ko", "lab": true, "m": ""}, {"n": "Juhyun Lee", "lab": false, "m": ""}, {"n": "Won Bin Im", "lab": false, "m": ""}, {"n": "Taeseup Song", "lab": false, "m": ""}, {"n": "Junghyun Choi", "lab": false, "m": "*"}, {"n": "Sung Beom Cho", "lab": false, "m": "*"}], "fig": 1}, {"id": 25, "date": "2023-08-31", "year": 2023, "title": "Understanding the Electrokinetic Role of Ions on Electricity Generation in Droplet-Based Hydrovoltaic Systems", "venue": "Journal of Physical Chemistry C", "jif": 3.4, "q": "Q3", "cites": 15, "role": "co-author", "pos": [2, 4], "doi": "https://doi.org/10.1021/acs.jpcc.3c03183", "authors": [{"n": "Min Sung Kang", "lab": false, "m": "†"}, {"n": "Hyunseok Ko", "lab": true, "m": ""}, {"n": "Seokhee Lee", "lab": false, "m": "*"}, {"n": "Sung Beom Cho", "lab": false, "m": "*"}], "fig": 1}, {"id": 24, "date": "2023-08-01", "year": 2023, "title": "Dispersion control via crystal-phase modulation of yttrium-doped ZrO2 nanoparticle sol", "venue": "Colloids and Surfaces A: Physicochemical and Engineering Aspects", "jif": 5.4, "q": "Q2", "cites": 10, "role": "first", "pos": [2, 5], "doi": "https://doi.org/10.1016/j.colsurfa.2023.131476", "authors": [{"n": "Hee-Seon Lee", "lab": false, "m": "†"}, {"n": "Hyunseok Ko", "lab": true, "m": "†"}, {"n": "Kyuyoung Heo", "lab": false, "m": ""}, {"n": "Heesoo Lee", "lab": false, "m": ""}, {"n": "Hyung Mi Lim", "lab": false, "m": ""}], "fig": 1}, {"id": 23, "date": "2023-08-11", "year": 2023, "title": "High-Throughput Screening on Halide Perovskite Derivatives and Rational Design of Cs3LuCl6", "venue": "ACS Energy Letters", "jif": 17.5, "q": "Q1", "cites": 27, "role": "first", "pos": [3, 10], "doi": "https://doi.org/10.1021/acsenergylett.3c01207", "authors": [{"n": "Hyeon Woo Kim", "lab": false, "m": "†"}, {"n": "Joo Hyeong Han", "lab": false, "m": "†"}, {"n": "Hyunseok Ko", "lab": true, "m": "†"}, {"n": "Tuhin Samanta", "lab": false, "m": ""}, {"n": "Dong Geon Lee", "lab": true, "m": ""}, {"n": "Dong Won Jeon", "lab": false, "m": ""}, {"n": "Woongchan Kim", "lab": false, "m": ""}, {"n": "Yong-Chae Chung", "lab": false, "m": ""}, {"n": "Won Bin Im", "lab": false, "m": "*"}, {"n": "Sung Beom Cho", "lab": false, "m": "*"}], "fig": 1}, {"id": 22, "date": "2023-05-01", "year": 2023, "title": "Fabrication of thin and lightweight cobalt-coated quartz fiber/aluminosilicate composites for high-temperature microwave absorption", "venue": "Ceramics International", "jif": 6.0, "q": "Q1", "cites": 27, "role": "co-author", "pos": [3, 7], "doi": "https://doi.org/10.1016/j.ceramint.2022.12.235", "authors": [{"n": "Wonwoo Choi", "lab": false, "m": "†"}, {"n": "Shanigaram Mallesh", "lab": false, "m": "†"}, {"n": "Hyunseok Ko", "lab": true, "m": ""}, {"n": "Minjun Kim", "lab": false, "m": ""}, {"n": "Joonhyung Shin", "lab": false, "m": ""}, {"n": "Kyungwon Kim", "lab": true, "m": ""}, {"n": "Youngwoo Nam", "lab": false, "m": ""}], "fig": 1}, {"id": 21, "date": "2023-04-01", "year": 2023, "title": "Modulation of Molybdenum oxidation state via Catalytic-oxidation", "venue": "Applied Surface Science", "jif": 6.6, "q": "Q1", "cites": 14, "role": "co-author", "pos": [3, 8], "doi": "https://doi.org/10.1016/j.apsusc.2023.156330", "authors": [{"n": "Kangchun Lee", "lab": false, "m": "†"}, {"n": "Seho Sun", "lab": false, "m": ""}, {"n": "Hyunseok Ko", "lab": true, "m": ""}, {"n": "Sung Beom Cho", "lab": false, "m": ""}, {"n": "Ganggyu Lee", "lab": false, "m": ""}, {"n": "Dongsoo Lee", "lab": false, "m": ""}, {"n": "Taeseup Song", "lab": false, "m": ""}, {"n": "Ungyu Paik", "lab": false, "m": ""}], "fig": 1}, {"id": 20, "date": "2023-01-17", "year": 2023, "title": "Why does water in porous carbon generate electricity? Electrokinetic role of protons in a water droplet-induced hydrovoltaic system of hydrophilic porous carbon", "venue": "Journal of Materials Chemistry A", "jif": 9.2, "q": "Q1", "cites": 33, "role": "first", "pos": [1, 8], "doi": "https://doi.org/10.1039/d2ta05281d", "authors": [{"n": "Hyunseok Ko", "lab": true, "m": "†"}, {"n": "Wonkyeong Son", "lab": false, "m": ""}, {"n": "Min Sung Kang", "lab": false, "m": ""}, {"n": "Han Uk Lee", "lab": false, "m": ""}, {"n": "Chan-Yeup Chung", "lab": false, "m": ""}, {"n": "Seungwu Han", "lab": false, "m": ""}, {"n": "Changsoon Choi", "lab": false, "m": ""}, {"n": "Sung Beom Cho", "lab": false, "m": "*"}], "fig": 1, "sel": 1}, {"id": 19, "date": "2022-09-30", "year": 2022, "title": "Establishment of a BaTiO3-based Computational Science Platform to Predict Multi-component Properties", "venue": "JOURNAL OF SENSOR SCIENCE AND TECHNOLOGY", "jif": null, "q": null, "cites": null, "role": "co-corresponding", "pos": [4, 5], "doi": "https://doi.org/10.46670/jsst.2022.31.5.318", "authors": [{"n": "Dong Geon Lee", "lab": true, "m": "†"}, {"n": "Han Uk  Lee", "lab": false, "m": ""}, {"n": "Won Bin Im", "lab": false, "m": ""}, {"n": "Hyunseok Ko", "lab": true, "m": "*"}, {"n": "Sung Beom Cho", "lab": false, "m": "*"}], "fig": 1}, {"id": 18, "date": "2022-06-28", "year": 2022, "title": "Fast-curing geopolymer foams with an enhanced pore homogeneity derived by hydrogen peroxide and sodium dodecyl sulfate surfactant", "venue": "Minerals", "jif": null, "q": null, "cites": 21, "role": "corresponding", "pos": [4, 4], "doi": "https://doi.org/10.3390/min12070821", "authors": [{"n": "Kyungwon Kim", "lab": true, "m": "†"}, {"n": "Hyung Mi Lim", "lab": false, "m": ""}, {"n": "Seog-Young Yoon", "lab": false, "m": ""}, {"n": "Hyunseok Ko", "lab": true, "m": "*"}], "fig": 1}, {"id": 17, "date": "2022-06-28", "year": 2022, "title": "Dominant Effects of Epitaxial Strain on the Phase Control of Heterostructural (In x Ga1-x) 2O3 Alloys", "venue": "ACS Applied Electronic Materials", "jif": null, "q": null, "cites": 4, "role": "co-author", "pos": [4, 5], "doi": "https://doi.org/10.1021/acsaelm.2c00240", "authors": [{"n": "Han Uk Lee", "lab": false, "m": "†"}, {"n": "Hyeon Woo Kim", "lab": false, "m": ""}, {"n": "Giulio Fatti", "lab": true, "m": ""}, {"n": "Hyunseok Ko", "lab": true, "m": ""}, {"n": "Sung Beom Cho", "lab": false, "m": "*"}], "fig": 1}, {"id": 16, "date": "2021-03-01", "year": 2021, "title": "High-temperature viscosity analysis of aluminosilicate melts and the comparison to empirical models", "venue": "Journal of the Korean Ceramic Society", "jif": null, "q": null, "cites": 5, "role": "first", "pos": [1, 4], "doi": "https://doi.org/10.1007/s43207-020-00078-1", "authors": [{"n": "Hyunseok Ko", "lab": true, "m": "†"}, {"n": "Myounguk Kim", "lab": false, "m": ""}, {"n": "Sun-Min Park", "lab": false, "m": ""}, {"n": "Hyung Mi Lim", "lab": false, "m": ""}], "fig": 1}, {"id": 15, "date": "2021-01-01", "year": 2021, "title": "Heterostructural phase diagram of Ga2O3-based solid solution with Al2O3", "venue": "Journal of the European Ceramic Society", "jif": null, "q": null, "cites": 32, "role": "co-author", "pos": [2, 4], "doi": "https://doi.org/10.1016/j.jeurceramsoc.2020.08.067", "authors": [{"n": "Hyeon Woo Kim", "lab": false, "m": "†"}, {"n": "Hyunseok Ko", "lab": true, "m": ""}, {"n": "Yong-Chae Chung", "lab": false, "m": ""}, {"n": "Sung Beom Cho", "lab": false, "m": ""}], "fig": 1}, {"id": 14, "date": "2021-11-01", "year": 2021, "title": "Correlation between viscoelasticity of aluminosilicate melts and elastic properties of melt-spun fibers", "venue": "Journal of Non-Crystalline Solids", "jif": null, "q": null, "cites": 1, "role": "first", "pos": [1, 4], "doi": "https://doi.org/10.1016/j.jnoncrysol.2021.121110", "authors": [{"n": "Hyunseok Ko", "lab": true, "m": "†"}, {"n": "Myounguk Kim", "lab": false, "m": ""}, {"n": "Sun-Min Park", "lab": false, "m": ""}, {"n": "Hyung Mi Lim", "lab": false, "m": ""}], "fig": 1}, {"id": 13, "date": "2021-08-13", "year": 2021, "title": "Triboelectrification: backflow and stuck charges are key", "venue": "ACS Energy Letters", "jif": null, "q": null, "cites": null, "role": "first", "pos": [1, 5], "doi": "https://doi.org/10.1021/acsenergylett.1c01019", "authors": [{"n": "Hyunseok Ko", "lab": true, "m": "†"}, {"n": "Yeong-Won Lim", "lab": false, "m": "†"}, {"n": "Seungwu Han", "lab": false, "m": ""}, {"n": "Chang Kyu Jeong", "lab": false, "m": "*"}, {"n": "Sung Beom Cho", "lab": false, "m": "*"}], "sel": 1, "fig": 1}, {"id": 12, "date": "2020-06-01", "year": 2020, "title": "Development of novel refractory ceramic continuous fibers of fly ash and comparison of mechanical properties with those of E-glass fibers using the Weibull distribution", "venue": "Ceramics International", "jif": null, "q": null, "cites": 11, "role": "first", "pos": [2, 7], "doi": "https://doi.org/10.1016/j.ceramint.2020.02.102", "authors": [{"n": "Myounguk Kim", "lab": false, "m": "†"}, {"n": "Hyunseok Ko", "lab": true, "m": "†"}, {"n": "Taesang Kwon", "lab": false, "m": ""}, {"n": "Hwang-Cheol Bae", "lab": false, "m": ""}, {"n": "Cheol-Hoon Jang", "lab": false, "m": ""}, {"n": "Bi-Ung Heo", "lab": false, "m": ""}, {"n": "Sun-Min Park", "lab": false, "m": ""}], "fig": 1}, {"id": 11, "date": "2020-10-01", "year": 2020, "title": "Effects of additives in colloidal silica based inorganic-hybrid binder for mineral wool insulation boards", "venue": "Journal of Asian Ceramic Societies", "jif": null, "q": null, "cites": 8, "role": "first", "pos": [1, 3], "doi": "https://doi.org/10.1080/21870764.2020.1842118", "authors": [{"n": "Hyunseok Ko", "lab": true, "m": "†"}, {"n": "Hee-Seon Lee", "lab": false, "m": ""}, {"n": "Hyung Mi Lim", "lab": false, "m": ""}], "fig": 1}, {"id": 10, "date": "2020-01-31", "year": 2020, "title": "Physiochemical effects of SiC and ZrO2 particle fillers on the properties of enamel coatings", "venue": "Coatings", "jif": null, "q": null, "cites": 4, "role": "first", "pos": [1, 5], "doi": "https://doi.org/10.3390/coatings10020121", "authors": [{"n": "Hyunseok Ko", "lab": true, "m": "†"}, {"n": "Sung-Jin Lee", "lab": false, "m": ""}, {"n": "Jae-Jong Oh", "lab": false, "m": ""}, {"n": "Seungho Lee", "lab": false, "m": "*"}, {"n": "Hyung Mi Lim", "lab": false, "m": "†*"}], "fig": 1}, {"id": 9, "date": "2019-11-01", "year": 2019, "title": "Effects of chemical composition of Ca (OH) 2 and precursors on the properties of fast-curing geopolymers", "venue": "Korean Journal of Materials Research", "jif": null, "q": null, "cites": 3, "role": "first", "pos": [1, 3], "doi": "https://doi.org/10.3740/mrsk.2019.29.11.690", "authors": [{"n": "Hyunseok Ko", "lab": true, "m": "†"}, {"n": "Jungyoung Noh", "lab": false, "m": ""}, {"n": "Hyung Mi Lim", "lab": false, "m": ""}], "fig": 1}, {"id": 8, "date": "2019-06-15", "year": 2019, "title": "Development of High Performance Exterior Ceramic Fiber Insulator with Recycled Materials", "venue": "Magazine of RCR", "jif": null, "q": null, "cites": null, "role": "co-author", "pos": [4, 5], "doi": "https://koreascience.kr/article/JAKO201929565689155.page", "authors": [{"n": "Hun Song", "lab": false, "m": "†"}, {"n": "Hyung Mi Lim", "lab": false, "m": ""}, {"n": "Sun-Min Park", "lab": false, "m": ""}, {"n": "Hyunseok Ko", "lab": true, "m": ""}, {"n": "Han-Bom Kim", "lab": false, "m": ""}], "fig": 1}, {"id": 7, "date": "2019-08-01", "year": 2019, "title": "Synergistic effects of amine-modified ammonium polyphosphate on curing behaviors and flame retardation properties of epoxy composites", "venue": "Composites Part B: Engineering", "jif": null, "q": null, "cites": 105, "role": "co-author", "pos": [2, 3], "doi": "https://doi.org/10.1016/j.compositesb.2019.04.016", "authors": [{"n": "Myounguk  Kim", "lab": false, "m": "†"}, {"n": "Hyunseok Ko", "lab": true, "m": ""}, {"n": "Sun-Min Park", "lab": false, "m": ""}], "fig": 1}, {"id": 6, "date": "2017-09-14", "year": 2017, "title": "Cs diffusion in SiC high-energy grain boundaries", "venue": "Journal of Applied Physics", "jif": null, "q": null, "cites": 5, "role": "first", "pos": [1, 3], "doi": "https://doi.org/10.1063/1.4989389", "authors": [{"n": "Hyunseok Ko", "lab": true, "m": "†"}, {"n": "Izabela zlufarska", "lab": false, "m": ""}, {"n": "Dane Morgan", "lab": false, "m": ""}], "fig": 1}, {"id": 4, "date": "2017-08-01", "year": 2017, "title": "Optimization of self-interstitial clusters in 3C-SiC with genetic algorithm", "venue": "Journal of Nuclear Materials", "jif": null, "q": null, "cites": 17, "role": "first", "pos": [1, 4], "doi": "https://doi.org/10.1016/j.jnucmat.2017.05.015", "authors": [{"n": "Hyunseok Ko", "lab": true, "m": "†"}, {"n": "Amy Kaczmarowski", "lab": false, "m": ""}, {"n": "Izabela Szlufarska", "lab": false, "m": ""}, {"n": "Dane Morgan", "lab": false, "m": ""}], "fig": 1}, {"id": 3, "date": "2016-08-01", "year": 2016, "title": "Ag diffusion in SiC high-energy grain boundaries: Kinetic Monte Carlo study with first-principle calculations", "venue": "Computational Materials Science", "jif": null, "q": null, "cites": 32, "role": "first", "pos": [1, 4], "doi": "https://doi.org/10.1016/j.commatsci.2016.04.027", "authors": [{"n": "Hyunseok Ko", "lab": true, "m": "†"}, {"n": "Jie Deng", "lab": false, "m": ""}, {"n": "Izabela Szlufarska", "lab": false, "m": ""}, {"n": "Dane Morgan", "lab": false, "m": ""}], "fig": 1}, {"id": 2, "date": "2016-04-01", "year": 2016, "title": "Effect of carbon ion irradiation on Ag diffusion in SiC", "venue": "Journal of Nuclear Materials", "jif": null, "q": null, "cites": 19, "role": "first", "pos": [2, 9], "doi": "https://doi.org/10.1016/j.jnucmat.2015.11.017", "authors": [{"n": "Bin Leng", "lab": false, "m": "†"}, {"n": "Hyunseok Ko", "lab": true, "m": "†"}, {"n": "Tyler J. Gerczak", "lab": false, "m": ""}, {"n": "Jie Deng", "lab": false, "m": ""}, {"n": "Andrew J. Giordani", "lab": false, "m": ""}, {"n": "Jerry L. Hunter Jr", "lab": false, "m": ""}, {"n": "Dane Morgan", "lab": false, "m": ""}, {"n": "Izabela Szlufarska", "lab": false, "m": ""}, {"n": "Kumar Sridharan", "lab": false, "m": ""}], "fig": 1}, {"id": 64, "date": "2015-12-01", "year": 2015, "title": "Grain boundary diffusion of Ag through polycrystalline SiC in TRISO fuel particles", "venue": "Journal of Nuclear Materials", "jif": null, "q": null, "cites": 21, "role": "co-author", "pos": [2, 5], "doi": "https://doi.org/10.1016/j.jnucmat.2015.09.054", "authors": [{"n": "Jie Deng", "lab": false, "m": "†"}, {"n": "Hyunseok Ko", "lab": true, "m": ""}, {"n": "Paul Demkowicz", "lab": false, "m": ""}, {"n": "Dane Morgan", "lab": false, "m": ""}, {"n": "Izabela Szlufarska", "lab": false, "m": ""}], "fig": 1}]</script>
-<script src="assets/js/site.js?v=20261017d"></script>
+<script src="assets/js/site.js?v=20261017e"></script>
 </body>
 </html>

diff --git a/assets/js/site.js b/assets/js/site.js
@@ -134,7 +134,7 @@
       + ' · <b>Published</b> ' + p.date;
 
     return '<div class="entry">'
-      + '<div class="thumb">'+(p.fig ? '<img src="assets/img/pub/'+p.id+'.jpg?v=20261017d" alt="" loading="lazy">' : thumb(p.id))+'</div>'
+      + '<div class="thumb">'+(p.fig ? '<img src="assets/img/pub/'+p.id+'.jpg?v=20261017e" alt="" loading="lazy">' : thumb(p.id))+'</div>'
       + '<div>'
       +   '<div class="entry-title"><span class="pub-no">'+p.year+'-'+p.no+'</span>'+p.title+'</div>'
       +   '<div class="entry-authors">'+authors+'</div>'
